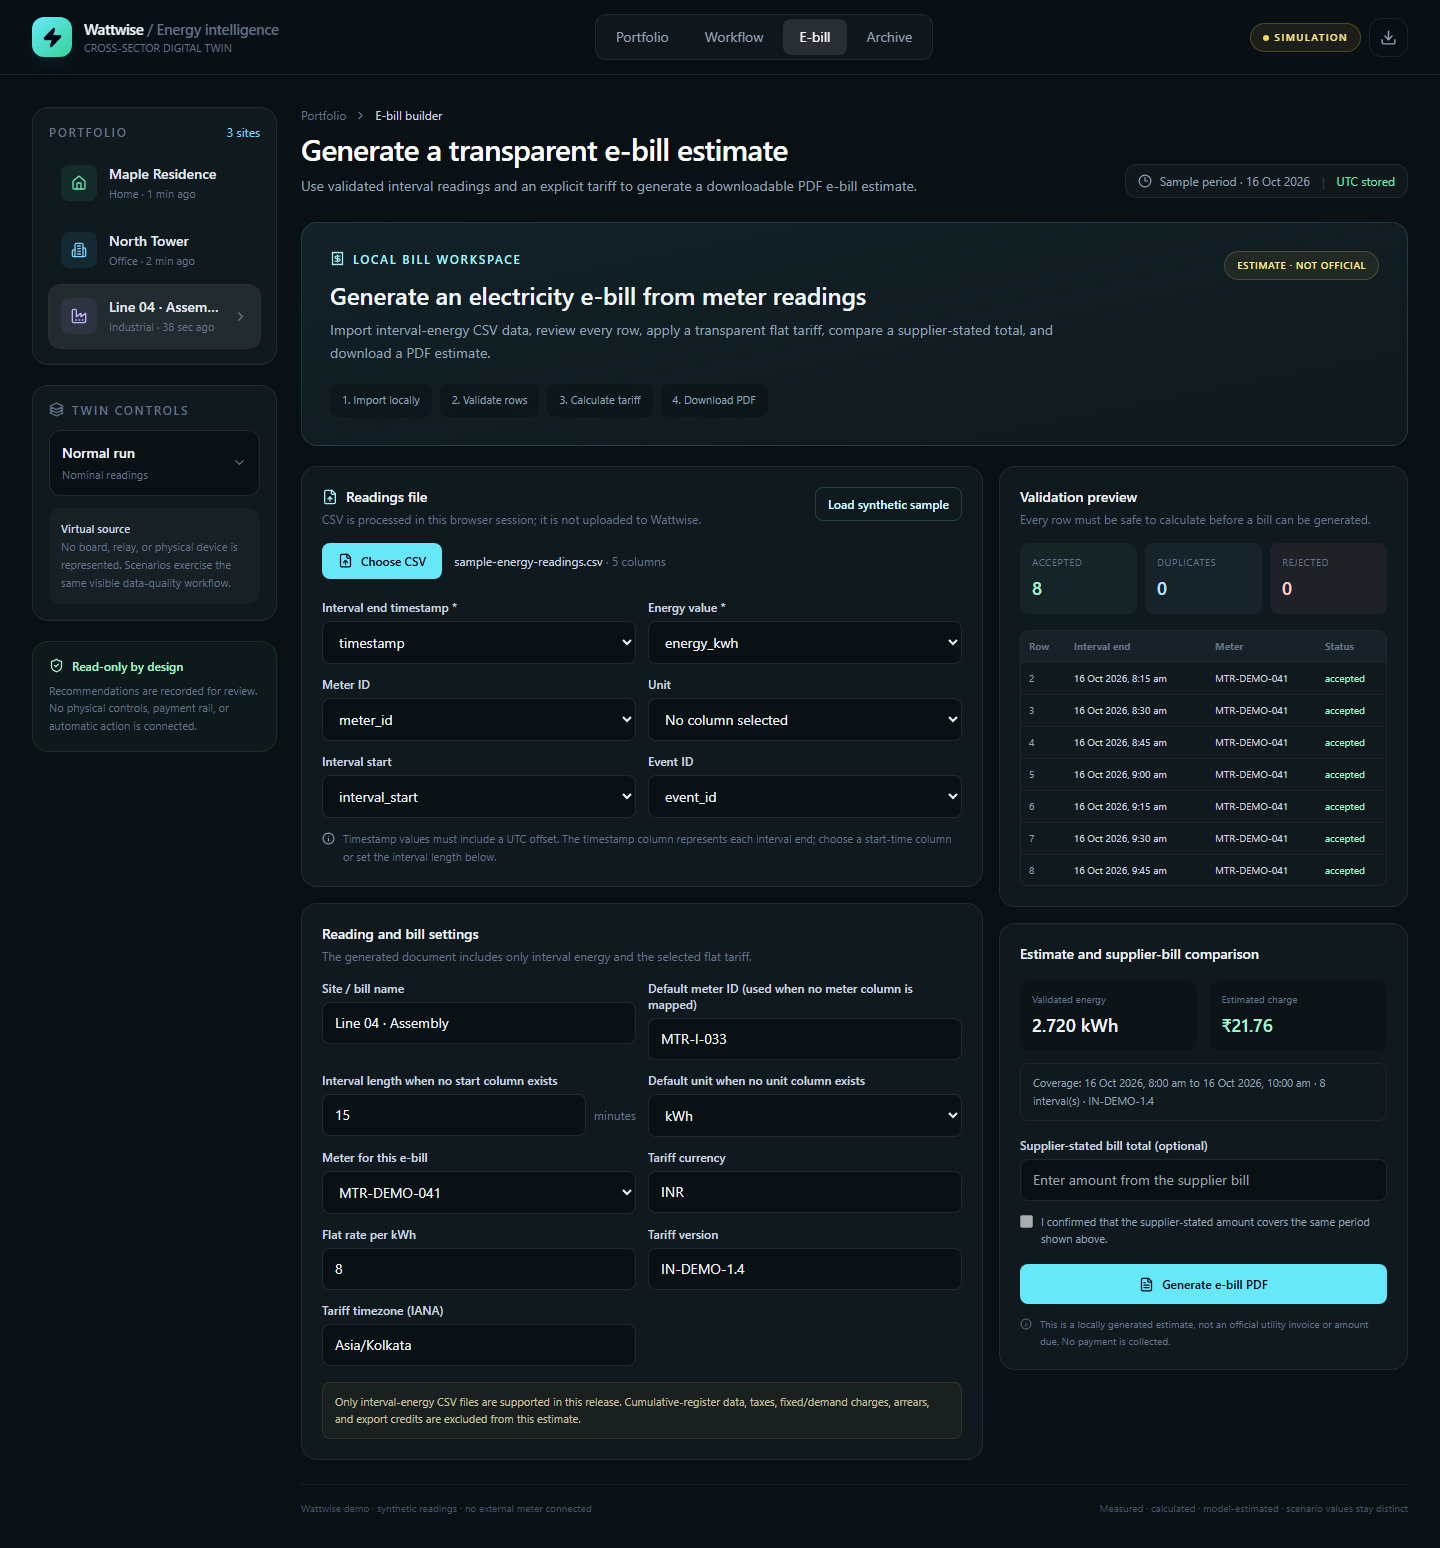
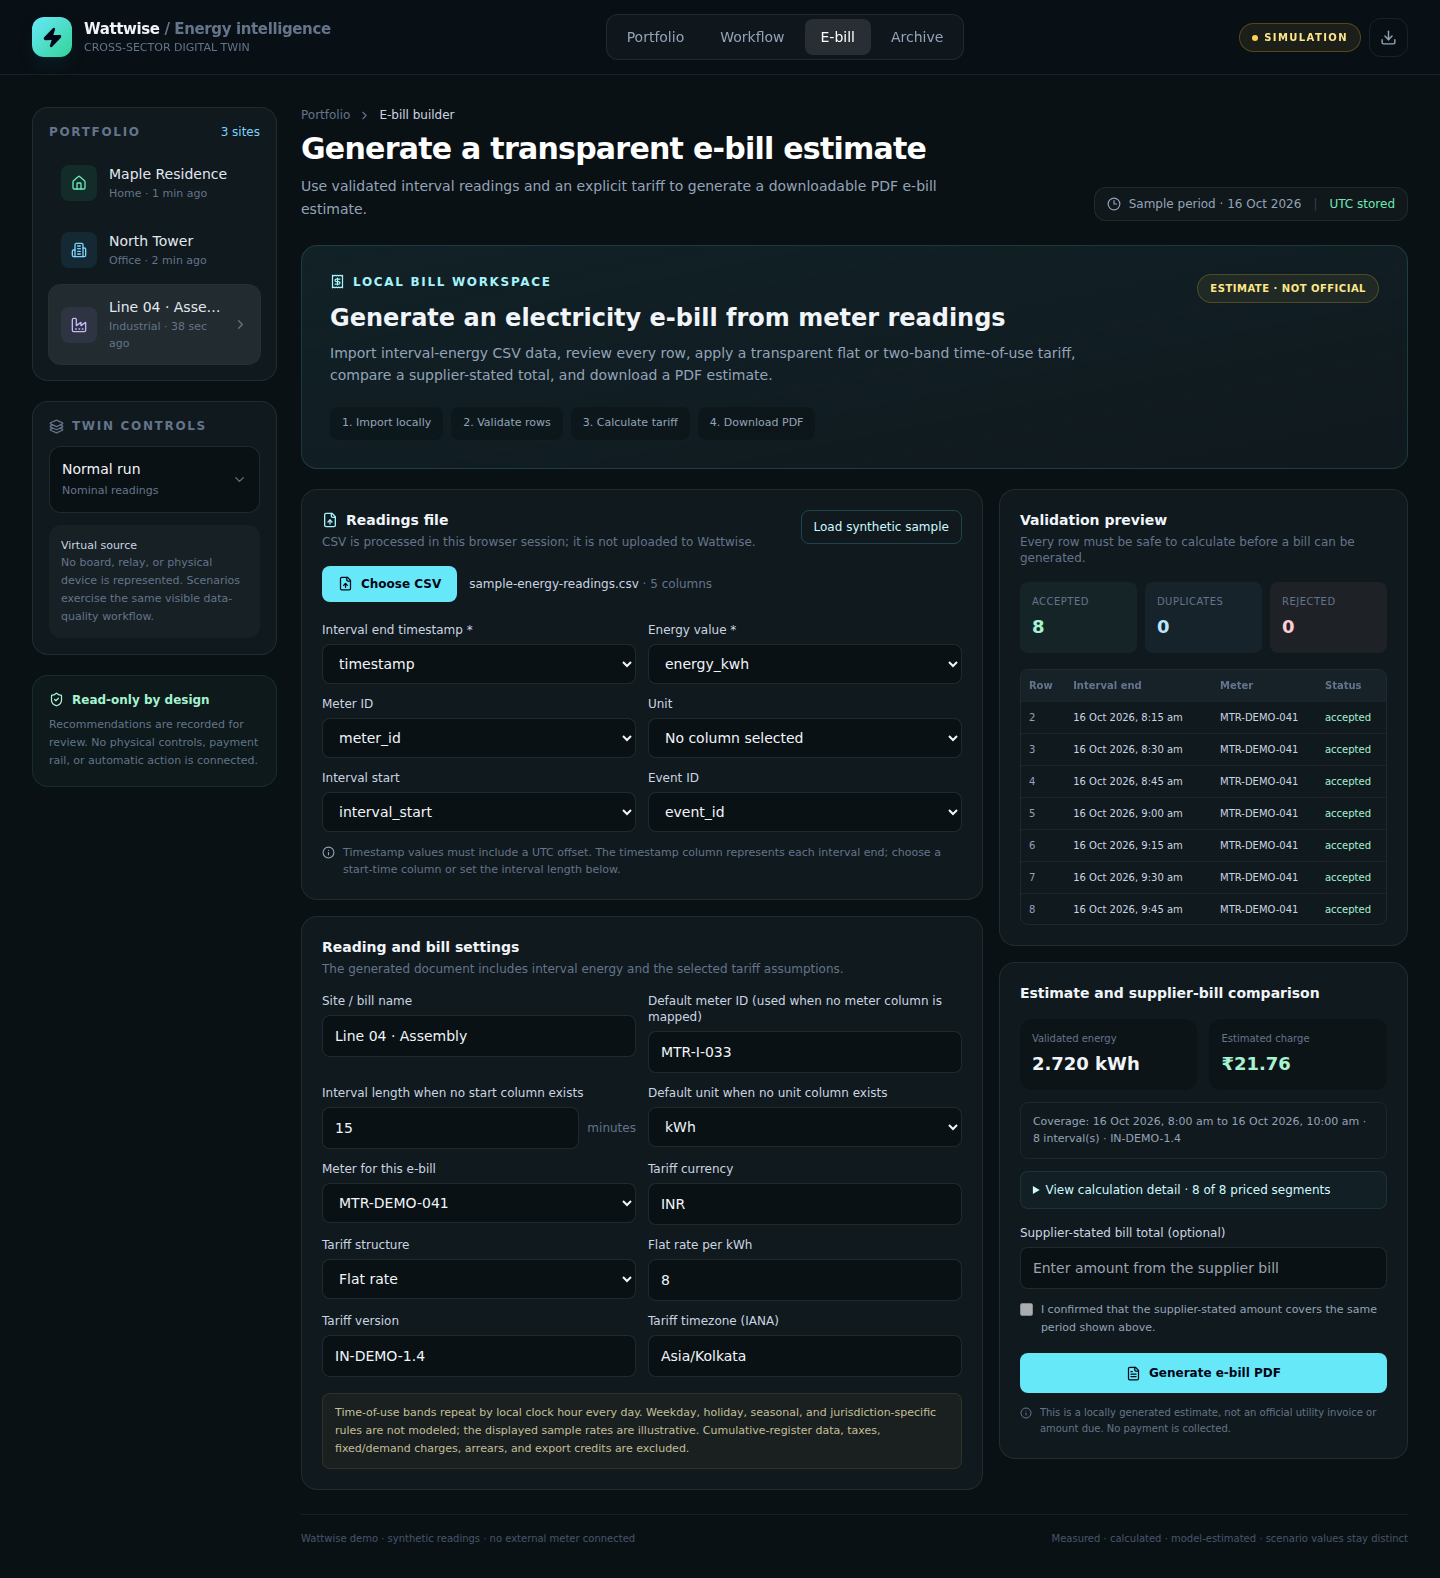
Refresh checked-in e-bill walkthrough screenshots

diff --git a/docs/marketplace-listing-draft.md b/docs/marketplace-listing-draft.md
@@ -72,7 +72,7 @@ npm run build
 npm run smoke:demo
 ```
 
-PRs #6 and #7 are merged. PR #8 remains an open draft. The prior baseline CI run passed Node 22/24 and browser E2E. The branch has 51 passing Node tests and measured coverage of 91.79% lines, 77.43% branches, and 99.05% functions across four JavaScript domain modules only. Four browser walkthrough screenshots are available in a [30-day artifact](https://github.com/SheeshDarth/smart-electricity-billing-system/actions/runs/40633652147/artifacts/12792527679). The database integration and its local checks have since been removed; current CI must pass again after this change.
+PRs #6 and #7 are merged. PR #8 remains an open draft. PR-head run 40635600460 passed Node 22/24 and browser E2E after the database integration was removed. The branch has 51 passing Node tests and measured coverage of 91.79% lines, 77.43% branches, and 99.05% functions across four JavaScript domain modules only. The four current screenshots are checked in and available in a [30-day artifact](https://github.com/SheeshDarth/smart-electricity-billing-system/actions/runs/40635600460/artifacts/12792514571).
 
 See the [digital-twin demo guide](digital-twin-demo-guide.md), [e-bill workflow guide](ebill-generation.md), and [visual browser walkthrough](ebill-browser-walkthrough.md) for the steps and screenshots. The sample file is synthetic; uploaded files are handled locally in the browser. The Chromium walkthrough checks the downloaded PDF filename, header, estimate, supplier variance, and estimate-only disclosure. Domain tests separately check the PDF structure.
 
@@ -84,8 +84,8 @@ See the [digital-twin demo guide](digital-twin-demo-guide.md), [e-bill workflow 
 | Domain | Electricity/energy software and billing examples | Choose the closest available energy or software domain tags; avoid utility-grade or IoT claims. |
 | Asking price | No current seller price selected | Refresh the platform estimate after privacy changes, then choose a price and rights scope. A platform estimate is advisory, not a buyer offer. |
 | Tests and coverage | Local run: 51 Node tests; measured coverage across four domain modules | State the run and exact scope: 91.79% lines, 77.43% branches, 99.05% functions. Do not report this as whole-repository or UI/SQL coverage. |
-| Browser walkthrough | Run 40633652147 passed four Chromium workflows, including tariff-boundary allocation, full calculation CSV, PDF schedule, and comparison reset | The four updated PNGs are available in the linked CI artifact. Hosted product behavior remains unverified. |
-| CI on pull requests | Previous run 40633652147 passed Node 22/24 and browser workflows; this change removes the database job | Refresh this evidence from the next branch CI run. |
+| Browser walkthrough | Run 40635600460 passed four Chromium workflows, including tariff-boundary allocation, full calculation CSV, PDF schedule, and comparison reset | Four refreshed PNGs are checked in and available in the linked CI artifact. Hosted product behavior remains unverified. |
+| CI on pull requests | Run 40635600460 passed Node 22/24, browser walkthrough, and smoke checks; no database job remains | Describe only these current checks; no backend security coverage is claimed. |
 | Private code supply | GitHub currently reports this repository as public while improvements are in progress | Do not claim a private-supply quote or publish until the intended final snapshot is private and DataVendor re-scans it. |
 | Private/personal data | The active application has no backend or customer data. A historical anonymous client key remains in 24 earlier commits; its external project is unreviewed | Keep this field unconfirmed until the old hosted project and key are reviewed, the project is safely decommissioned or retained under owner control, and remaining data exposure is reviewed. Removing source integration does not revoke the historical key. |
 

diff --git a/docs/buyer-readiness.md b/docs/buyer-readiness.md
@@ -4,9 +4,9 @@ Preparation notes for a possible codebase marketplace listing. This is not a val
 
 ## Current snapshot
 
-PRs #6 and #7 are merged into `main`. PR #8 remains an open draft. Previous commit `ab6da4a` passed Node 22/24 checks and four Chromium workflows in [GitHub Actions run 40633652147](https://github.com/SheeshDarth/smart-electricity-billing-system/actions/runs/40633652147). The current branch removes the database integration and CI job; its updated checks are pending.
+PRs #6 and #7 are merged into `main`. PR #8 remains an open draft. After removal of the database integration, PR-head CI run 40635600460 passed Node 22/24 lint, type-check, tests/coverage, build, smoke check, and the four-test Chromium walkthrough. The [four refreshed screenshots](https://github.com/SheeshDarth/smart-electricity-billing-system/actions/runs/40635600460/artifacts/12792514571) are checked into the repo and retained as an artifact for 30 days.
 
-Locally, 51 Node tests passed and Node measured 91.79% line, 77.43% branch, and 99.05% function coverage across four domain modules before this change. Coverage should be refreshed after the current code changes. Local lint, type-check, build, and Playwright previously could not be run because dependency installation was blocked by a Windows filesystem `EPERM`. CI published four walkthrough screenshots in the [run artifact](https://github.com/SheeshDarth/smart-electricity-billing-system/actions/runs/40633652147/artifacts/12792527679); checked-in PNGs still need a local refresh.
+The prior local measurement was 51 Node tests and 91.79% line, 77.43% branch, and 99.05% function coverage across four domain modules. The current CI rerun passes the same domain test suite; percentages remain limited to those modules. The screenshot set is current as of run 40635600460.
 
 The e-bill flow remains a local estimate workflow. The archive UI validates files and summarizes record counts but does not persist imports. The legacy payment and bill routes have been removed. No real tariff compliance, payment processing, live meter adapter, or official bill issuance is claimed.
 
@@ -24,7 +24,7 @@ The e-bill flow remains a local estimate workflow. The archive UI validates file
 ## Evidence safe to describe now
 
 - [x] The prototype has a local CSV-to-estimate flow with row validation, flat and two-band local-hour tariff assumptions, optional same-period supplier comparison, and a PDF estimate generator.
-- [x] The Chromium suite passed flat and time-of-use flows, including a local tariff-boundary split, per-band calculation export, PDF schedule assertion, and four-screenshot artifact.
+- [x] CI run 40635600460 passed the Chromium suite for flat and time-of-use flows, including a local tariff-boundary split, per-band calculation export, PDF schedule assertion, and four-screenshot artifact.
 - [x] Domain coverage is measured and scoped to four JavaScript domain modules: 91.79% lines, 77.43% branches, and 99.05% functions on the 28 October local run.
 - [x] A local archive export and whole-file validation summary exist; no partial database import is performed.
 - [x] The dependency inventory and history-screening results are documented with their limits.

diff --git a/docs/feature-status.md b/docs/feature-status.md
@@ -18,7 +18,7 @@ Status snapshot: 28 October 2026. “Implemented” means code exists in the rep
 | Human review and outcome | Synthetic workflow | Local decision and simulated verification only; no persistent intervention or proven savings. |
 | Energy archive v1 | Local export and validated summary | Browser exports synthetic linked records and validates a complete selected JSON archive. Reports all detected issues/counts and refuses partial import. No backend persistence, authentication, signature, full non-measurement schemas, or transactional production import. |
 | Authentication, persistence, and tenant security | Not included | Legacy database-backed routes, client integration, schema, and migrations were removed. No application database is currently connected. |
-| Demo packaging | HTTP smoke and Chromium walkthrough passed in CI run 40633652147 | Four E2E tests cover flat and time-of-use estimates, local-hour boundary allocation, calculation CSV, PDF disclosure, invalid-row blocking, and comparison reset. [Current screenshot artifact](https://github.com/SheeshDarth/smart-electricity-billing-system/actions/runs/40633652147/artifacts/12792527679) is retained for 30 days. |
+| Demo packaging | HTTP smoke and Chromium walkthrough passed in CI run 40635600460 after database removal | Four E2E tests cover flat and time-of-use estimates, local-hour boundary allocation, calculation CSV, PDF disclosure, invalid-row blocking, and comparison reset. [Current screenshot artifact](https://github.com/SheeshDarth/smart-electricity-billing-system/actions/runs/40635600460/artifacts/12792514571) is retained for 30 days. |
 | E-bill calculation trace | Implemented | Expandable view maps up to 12 priced segments to source references; full CSV preserves source-interval bounds, segment bounds, tariff period/rate, source value/unit origin, and summary. PDF records a time-of-use schedule without a fabricated flat rate. |
 | Domain coverage | Measured locally 28 October 2026 | Node reports 91.79% lines, 77.43% branches, 99.05% functions across four domain modules only. No UI, SQL, or whole-repository coverage claim. |
 | Live meter adapters | Not implemented | No DLMS/COSEM, OPC UA, MQTT, vendor API, gateway, or hardware-in-the-loop integration. |

diff --git a/docs/ebill-browser-walkthrough.md b/docs/ebill-browser-walkthrough.md
@@ -19,11 +19,11 @@ The Playwright end-to-end test creates these screenshots from the production bui
 1. [CSV upload and validation](assets/ebill-walkthrough/01-csv-validation.png)
 2. [Estimate and supplier comparison](assets/ebill-walkthrough/02-estimate-comparison.png)
 3. [Generated estimate and variance](assets/ebill-walkthrough/03-bill-variance.png)
-4. [Time-of-use boundary allocation in the current CI screenshot artifact](https://github.com/SheeshDarth/smart-electricity-billing-system/actions/runs/40633652147/artifacts/12792527679)
+4. [Time-of-use boundary allocation](assets/ebill-walkthrough/04-time-of-use-breakdown.png)
 
-The checked-in first three PNGs predate the time-of-use calculation view. Download the linked four-image artifact to inspect the current screenshots from the passing production-build walkthrough.
+All four checked-in screenshots were refreshed from the passing production-build walkthrough in [CI run 40635600460](https://github.com/SheeshDarth/smart-electricity-billing-system/actions/runs/40635600460). CI also retains the four-image artifact for 30 days.
 
-The Playwright walkthrough includes a 30-minute synthetic reading that crosses from off-peak into peak time in Asia/Kolkata. It checks the half-hour energy allocation, both per-band charges, the complete calculation CSV, and PDF schedule. All four browser tests passed in [CI run 40633652147](https://github.com/SheeshDarth/smart-electricity-billing-system/actions/runs/40633652147); the screenshots remain available as an artifact for 30 days. The workflow remains an estimate only; no payment is collected.
+The Playwright walkthrough includes a 30-minute synthetic reading that crosses from off-peak into peak time in Asia/Kolkata. It checks the half-hour energy allocation, both per-band charges, the complete calculation CSV, and PDF schedule. All four browser tests passed in [CI run 40635600460](https://github.com/SheeshDarth/smart-electricity-billing-system/actions/runs/40635600460); the screenshots remain available as an artifact for 30 days. The workflow remains an estimate only; no payment is collected.
 
 ## Run it locally
 

diff --git a/docs/roadmap.md b/docs/roadmap.md
@@ -31,7 +31,7 @@ The application includes synthetic browser scenarios, measurement and tariff dom
 
 ### Exit gate
 
-Current status: PR #6 and PR #7 are merged; PR #8 remains an open draft. The previous code commit `ab6da4a` passed Node 22/24, browser, and database checks in run 40633652147. This branch removes the database integration and its CI job; rerun CI before claiming it passes. The branch previously measured 91.79% lines, 77.43% branches, and 99.05% functions across four domain modules. The [browser screenshots](https://github.com/SheeshDarth/smart-electricity-billing-system/actions/runs/40633652147/artifacts/12792527679) remain available as a CI artifact. Repository history screening found a historical anonymous client key. Hosted project/key review, ownership/license review, and buyer validation remain open; there are no operator interviews or pilot evidence yet.
+Current status: PR #6 and PR #7 are merged; PR #8 remains an open draft. Previous commit `ab6da4a` passed Node 22/24, browser, and database checks in run 40633652147. After removing the database integration and CI job, the updated branch passed Node 22/24 and browser checks in [run 40635600460](https://github.com/SheeshDarth/smart-electricity-billing-system/actions/runs/40635600460). The branch previously measured 91.79% lines, 77.43% branches, and 99.05% functions across four domain modules. The [current four-screenshot artifact](https://github.com/SheeshDarth/smart-electricity-billing-system/actions/runs/40635600460/artifacts/12792514571) is also checked into the repo. Repository history screening found a historical anonymous client key. Hosted project/key review, ownership/license review, and buyer validation remain open; there are no operator interviews or pilot evidence yet.
 
 ## P1 — Validate buyer, data access, and first scenario
 
